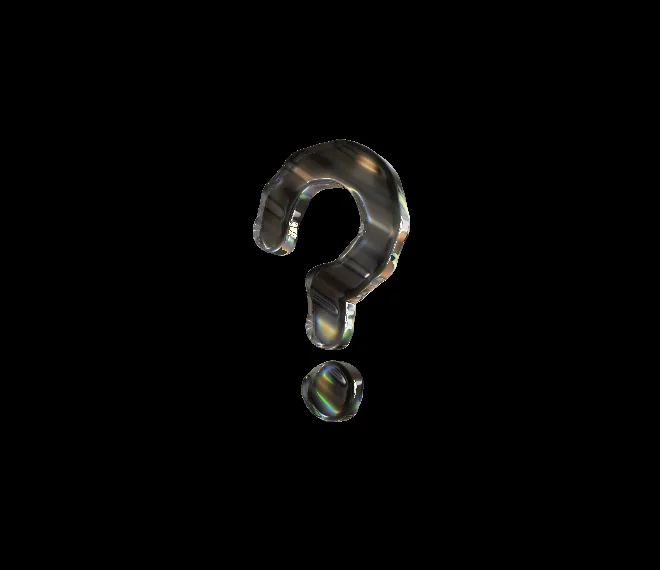
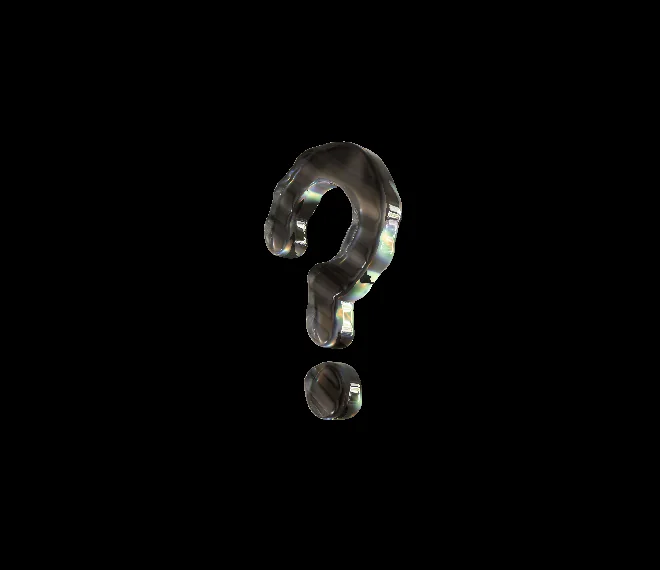
fix(home): centre the live preview iframe and unhijack the panel buttons
首頁 hover 後大多數卡片看不到動畫，原因是 .card-preview iframe 的
transform-origin 是 left top，卻搭配 fitPreview() 的 translate(-50%,-50%)
scale()。縮放從左上角起算，整個 iframe 被推掉半個未縮放尺寸（330×285px），
小卡片只剩左上角一塊全黑背景落在框內，使用者看到的一直是海報。改成繞中心
縮放後 13 張卡都會播，畫面變化量從「只剩掃光的 17」回到 213–255。

順帶收掉一個 race：leaveCard() 原本無條件清掉 previewTimer，捲動時瀏覽器
補發的 pointerleave 若晚於新卡的 pointerenter，會把剛排好的預覽一起取消。
改成只取消該卡自己排的那一個。

動態光環的「匯出去背 PNG 序列」被主題的 #exportBtn 規則抓成頂欄 fixed 膠囊，
而 #panel 的 backdrop-filter 讓它成為定位基準，整顆壓到面板標題上。那顆改名
為 ringExportBtn，主題規則也收斂成 body > #exportBtn —— 這同時擋掉
mobile-control-sheet.js 在手機寬度把面板內按鈕搬進頂欄 nav 的問題。

同一組規則還把 #playCtl 設成 width:40px / font-size:0 的純圖示鍵，但極光、
櫻花、動態光環的播放鍵是純文字「⏸ 暫停」，字被隱藏後只剩一顆空膠囊。純圖示
那段限縮到 #playCtl:has(.btnIcon)。

海報則用 ?diagTime= 釘在「hover 後亮出來的那一幀」（起始相位 8% 加上 260ms
揭示延遲乘 1.8 倍預覽速度），海報與交棒後第一幀不再跳一段。為此 bubble 的
預覽診斷 hook 多回報一個唯讀的 loopDuration。

Changed region(s): [[0.3636, 0.2386, 0.6364, 0.7456]]

diff --git a/switch2-theme.css b/switch2-theme.css
@@ -494,7 +494,10 @@ body.leaving #rail { z-index: 10; }
   backdrop-filter: blur(18px) !important;
   transition: transform 160ms cubic-bezier(.2,.8,.2,1), background-color 160ms ease, border-color 160ms ease !important;
 }
-#exportBtn {
+/* 只有掛在 body 底下的那顆才是頂欄的全域動作。面板內部的匯出按鈕（例如動態光環
+   的「匯出去背 PNG 序列」）是一般的區塊按鈕，被這條規則抓到就會變成 fixed，而
+   面板的 backdrop-filter 又讓它成為定位基準，結果整顆跑到面板標題上面去。 */
+body > #exportBtn {
   position: fixed;
   z-index: 12;
   top: 12px;
@@ -516,19 +519,19 @@ body.leaving #rail { z-index: 10; }
   cursor: pointer;
   transition: transform 160ms cubic-bezier(.2,.8,.2,1), filter 160ms ease, box-shadow 160ms ease;
 }
-#exportBtn::before {
+body > #exportBtn::before {
   content: "";
   width: 10px;
   height: 10px;
   background: currentColor;
   clip-path: polygon(43% 0, 57% 0, 57% 56%, 76% 37%, 86% 47%, 50% 83%, 14% 47%, 24% 37%, 43% 56%);
 }
-#exportBtn:hover {
+body > #exportBtn:hover {
   filter: brightness(1.12);
   transform: translateY(-1px);
   box-shadow: 0 10px 30px rgba(12,116,226,.44), inset 0 1px rgba(255,255,255,.28);
 }
-#exportBtn:active { transform: scale(.97); }
+body > #exportBtn:active { transform: scale(.97); }
 #homeBtn::before, .home::before {
   content: "";
   width: 7px;
@@ -568,16 +571,22 @@ body.leaving #rail { z-index: 10; }
   right: 106px !important;
   bottom: auto !important;
   left: auto !important;
-  width: 40px !important;
-  min-width: 40px !important;
   height: 34px !important;
   min-height: 34px !important;
-  padding: 0 !important;
-  overflow: hidden;
-  font-size: 0 !important;
+  padding: 0 14px !important;
   line-height: 1 !important;
   transform: none !important;
   gap: 0 !important;
+}
+/* 收成 40px 的純圖示膠囊，只適用於按鈕裡真的有 .btnIcon 那顆（液態玻璃頁）。
+   極光、櫻花、動態光環的播放鍵是純文字「⏸ 暫停」，無條件套上 font-size: 0 會
+   變成右上角一顆什麼都沒有的空膠囊。 */
+#playCtl:has(.btnIcon) {
+  width: 40px !important;
+  min-width: 40px !important;
+  padding: 0 !important;
+  overflow: hidden;
+  font-size: 0 !important;
 }
 #playCtl #playCtlLabel { display: none; }
 /* Icon is rendered by the inline SVG in the button markup, not by this pseudo-element. */

diff --git a/home.js b/home.js
@@ -17,6 +17,7 @@ const cardEls = [];
 
 let activePreview = null;
 let previewTimer = 0;
+let pendingCard = null;
 let launching = false;
 let audioCtx = null;
 let soundOn = (localStorage.getItem('vfx-sound') ?? '1') === '1';
@@ -106,6 +107,7 @@ function fitPreview(frame, host) {
 function stopLivePreview() {
   window.clearTimeout(previewTimer);
   previewTimer = 0;
+  pendingCard = null;
   if (!activePreview) return;
   const { card, frame } = activePreview;
   try { frame.contentWindow?.postMessage('vfx-pause', '*'); } catch (_) {}
@@ -169,13 +171,23 @@ function startLivePreview(card, effect) {
 
 function queueLivePreview(card, effect) {
   window.clearTimeout(previewTimer);
-  if (activePreview?.card === card) return;
-  previewTimer = window.setTimeout(() => startLivePreview(card, effect), PREVIEW_DELAY_MS);
+  if (activePreview?.card === card) { pendingCard = null; return; }
+  pendingCard = card;
+  previewTimer = window.setTimeout(() => {
+    pendingCard = null;
+    startLivePreview(card, effect);
+  }, PREVIEW_DELAY_MS);
 }
 
+// 只取消「這張卡自己排的」那個計時器。捲動會讓游標底下換一張卡，瀏覽器補發的
+// pointerleave 可能晚於新卡的 pointerenter；無條件清掉計時器就會把剛排好的預覽
+// 一起取消，那張卡從此停在海報上。
 function leaveCard(card) {
-  window.clearTimeout(previewTimer);
-  previewTimer = 0;
+  if (pendingCard === card) {
+    window.clearTimeout(previewTimer);
+    previewTimer = 0;
+    pendingCard = null;
+  }
   if (activePreview?.card === card) stopLivePreview();
 }
 

diff --git a/energy-ring/index.html b/energy-ring/index.html
@@ -5,7 +5,7 @@
 <meta name="viewport" content="width=device-width, initial-scale=1.0">
 <title>Energy Ring VFX</title>
 <link rel="stylesheet" href="./energy-ring.css">
-<link rel="stylesheet" href="../switch2-theme.css?v=banner-webp-1">
+<link rel="stylesheet" href="../switch2-theme.css?v=panel-scope-1">
 <script src="../preview-performance.js"></script>
 <script src="../mobile-control-sheet.js?v=mobile-sheet-23"></script>
 </head>
@@ -51,7 +51,7 @@
     <div class="row"><label>FPS 上限</label><input type="number" id="fps" min="1" max="240" step="1" value="60"><span class="val"></span></div>
     <div class="row"><label>輸出秒數</label><input type="number" id="exportSec" min="0.1" max="30" step="0.1" value="3"><button class="linkbtn" id="syncLoopBtn" title="設為循環秒數，確保輸出無縫循環">= 循環</button></div>
     <div class="row"><label>尺寸 W×H</label><input type="number" class="dim" id="expW" min="16" max="4096" step="1" value="1080"><button class="linkbtn" id="linkBtn" title="連動長寬比">🔗</button><input type="number" class="dim" id="expH" min="16" max="4096" step="1" value="1080"></div>
-    <button class="mini" id="exportBtn">⬇ 匯出去背 PNG 序列 (zip)</button>
+    <button class="mini" id="ringExportBtn">⬇ 匯出去背 PNG 序列 (zip)</button>
     <span id="exportStatus"></span>
   </div>
 

diff --git a/home.css b/home.css
@@ -167,9 +167,13 @@ a { color: inherit; }
 .card:hover .card-poster, .card:focus-visible .card-poster {
   transform: scale(1.045); filter: saturate(1.03) contrast(1.04) brightness(.92);
 }
+/* fitPreview() 用 left/top 50% + translate(-50%,-50%) 置中，縮放必須繞著元素中心
+   算。原本這裡是 transform-origin: left top，縮放會從左上角起算，整個 iframe 被
+   往左上推掉半個未縮放的尺寸（660×570 的一半）——小卡片幾乎只剩一角落在框內，
+   看起來就像「hover 了卻不播放」，大卡片則是主體位置跟海報對不上。 */
 .card-preview iframe {
   z-index: 1; width: 660px; height: 570px; visibility: hidden; opacity: 0; pointer-events: none;
-  transform-origin: left top; transition: opacity 260ms ease;
+  transform-origin: 50% 50%; transition: opacity 260ms ease;
 }
 .card-preview iframe.is-ready { visibility: visible; opacity: 1; }
 .preview-prism {

diff --git a/bubble/bubble.js b/bubble/bubble.js
@@ -3356,9 +3356,13 @@ let simT = PREVIEW && LAUNCH_MOTION && LAUNCH_MOTION !== 'static'
   : 0;
 // 首頁預覽矩陣用：確認訊息確實解除外部暫停，而且動畫時間有持續前進。
 // 只回報狀態，不改變 runtime 行為。
+// loopDuration 也一起報出來：海報產生器要靠它算出「預覽開播的那一幀」是第幾秒
+// （見 tests/generate_home_posters.py 的 PREVIEW_START_PHASE），才能把海報釘在
+// 跟 hover 後第一幀相同的相位上。
 window.__bubblePreviewDiag = () => ({
   simT, rafId, extPaused, userPaused, reducedMotionPaused,
   shapeConverting, hidden: document.hidden, paused: isPaused(),
+  loopDuration: P.loopDuration,
 });
 function frame(now) {
   rafId = requestAnimationFrame(frame);

diff --git a/energy-ring/controls.js b/energy-ring/controls.js
@@ -42,7 +42,7 @@ const DEFAULTS = {
 };
 const P = { ...DEFAULTS, ccw: false };
 // Q 是渲染程式碼實際讀取的參數來源：即時預覽時等於 P；匯出時暫時指向一份快照，
-// 這樣使用者在匯出途中調整滑桿只會改到 P，不會污染正在進行中的那次匯出（見 exportBtn 的處理）。
+// 這樣使用者在匯出途中調整滑桿只會改到 P，不會污染正在進行中的那次匯出（見 ringExportBtn 的處理）。
 let Q = P;
 // 暫停中調整參數時標記為 true，讓主迴圈用同一個凍結的時間點重畫一張反映新參數的靜態畫面
 let paramsDirty = false;

diff --git a/index.html b/index.html
@@ -6,7 +6,7 @@
 <meta name="theme-color" content="#05070b">
 <meta name="description" content="VFX Playground — 以光、材質與動態構成的互動視覺實驗集。">
 <title>VFX Playground — Optical Experiments</title>
-<link rel="stylesheet" href="./home.css?v=ios27-gallery-1">
+<link rel="stylesheet" href="./home.css?v=ios27-gallery-2">
 </head>
 <body>
 <a class="skip-link" href="#gallery">跳至作品列表</a>
@@ -54,6 +54,6 @@
   </footer>
 </div>
 
-<script type="module" src="./home.js?v=ios27-gallery-1"></script>
+<script type="module" src="./home.js?v=ios27-gallery-2"></script>
 </body>
 </html>

diff --git a/bubble/index.html b/bubble/index.html
@@ -12,7 +12,7 @@ html.preview-mode #homeBtn,html.preview-mode #toggleBtn,html.preview-mode #expor
 body[data-bubble-boot] #panel,body[data-bubble-boot] #stage{visibility:hidden!important;opacity:0!important}
 </style>
 <link rel="stylesheet" href="./bubble.css?v=edge-tint-1">
-<link rel="stylesheet" href="../switch2-theme.css?v=banner-webp-1">
+<link rel="stylesheet" href="../switch2-theme.css?v=panel-scope-1">
 <link rel="stylesheet" href="./inspector.css?v=panel-ux-3">
 <script src="../preview-performance.js"></script>
 <script src="../mobile-control-sheet.js?v=mobile-sheet-23"></script>

diff --git a/energy-ring/exporter.js b/energy-ring/exporter.js
@@ -62,9 +62,9 @@ document.getElementById('syncLoopBtn').addEventListener('click', () => {
   document.getElementById('exportSec').value = P.loopSec.toFixed(1);
 });
 
-document.getElementById('exportBtn').addEventListener('click', async () => {
+document.getElementById('ringExportBtn').addEventListener('click', async () => {
   if (exporting) return;
-  const btn = document.getElementById('exportBtn');
+  const btn = document.getElementById('ringExportBtn');
   const status = document.getElementById('exportStatus');
   exporting = true;
   btn.disabled = true;

diff --git a/sakura-blizzard/index.html b/sakura-blizzard/index.html
@@ -5,7 +5,7 @@
 <meta name="viewport" content="width=device-width, initial-scale=1.0">
 <title>Sakura Storm VFX</title>
 <link rel="stylesheet" href="./sakura-blizzard.css">
-<link rel="stylesheet" href="../switch2-theme.css?v=banner-webp-1">
+<link rel="stylesheet" href="../switch2-theme.css?v=panel-scope-1">
 <script src="../preview-performance.js"></script>
 <script src="../mobile-control-sheet.js?v=mobile-sheet-23"></script>
 </head>

diff --git a/aurora/index.html b/aurora/index.html
@@ -5,7 +5,7 @@
 <meta name="viewport" content="width=device-width, initial-scale=1.0">
 <title>Aurora VFX</title>
 <link rel="stylesheet" href="./aurora.css">
-<link rel="stylesheet" href="../switch2-theme.css?v=banner-webp-1">
+<link rel="stylesheet" href="../switch2-theme.css?v=panel-scope-1">
 <script src="../preview-performance.js"></script>
 <script src="../mobile-control-sheet.js?v=mobile-sheet-23"></script>
 </head>

diff --git a/tests/generate_home_posters.py b/tests/generate_home_posters.py
@@ -9,6 +9,13 @@ from PIL import Image
 from playwright.sync_api import sync_playwright
 
 
+# 與 bubble.js 主迴圈裡預覽的起始 simT 相同（loopDuration 的 8%）。
+PREVIEW_START_PHASE = 0.08
+# 卡片不是在第一幀就把海報換成 iframe：bubble.js 畫出第一幀後還會等
+# PREVIEW_PRESENT_DELAY_MS（260ms）才標記 stageReady，而預覽的時間流速是 1.8 倍。
+# 海報要對上的是「亮出來的那一幀」，所以要把這段時間也加進相位。
+PREVIEW_REVEAL_LEAD_S = 0.26 * 1.8
+
 POSTERS = {
     "sakura": "sakura-blizzard/index.html?preview=1",
     "energy-ring": "energy-ring/index.html?preview=1",
@@ -24,6 +31,16 @@ POSTERS = {
     "typewriter": "bubble/index.html?mode=typewriter&preview=1",
     "static": "bubble/index.html?mode=static&preview=1",
 }
+
+
+def boot(page, settle_ms: int) -> None:
+    """Wait until the bubble page has finished booting and drawn a settled frame."""
+    page.evaluate("() => window.postMessage('vfx-play', '*')")
+    page.wait_for_function(
+        "() => window.__bubbleDiagReport && !document.body.hasAttribute('data-bubble-boot')",
+        timeout=90_000,
+    )
+    page.wait_for_timeout(settle_ms)
 
 
 def main() -> int:
@@ -46,12 +63,16 @@ def main() -> int:
         for name, route in posters:
             page.goto(f"{args.base_url}/{route}", wait_until="domcontentloaded", timeout=90_000)
             if route.startswith("bubble/"):
-                page.evaluate("() => window.postMessage('vfx-play', '*')")
-                page.wait_for_function(
-                    "() => window.__bubbleDiagReport && !document.body.hasAttribute('data-bubble-boot')",
-                    timeout=90_000,
-                )
-                page.wait_for_timeout(args.settle_ms)
+                boot(page, args.settle_ms)
+                # 海報必須是「hover 後亮出來的第一幀」，否則卡片從海報切到 iframe
+                # 的瞬間，主體與水滴會憑空跳一段。bubble.js 的預覽從 loopDuration
+                # 的 8% 起跑，所以把時間釘在同一個相位再重拍一次。
+                loop = page.evaluate("() => window.__bubblePreviewDiag?.()?.loopDuration ?? null")
+                if loop:
+                    phase = loop * PREVIEW_START_PHASE + PREVIEW_REVEAL_LEAD_S
+                    pinned = f"{args.base_url}/{route}&diagTime={round(phase % loop, 4)}"
+                    page.goto(pinned, wait_until="domcontentloaded", timeout=90_000)
+                    boot(page, args.settle_ms)
             else:
                 page.wait_for_timeout(1_800)
 
